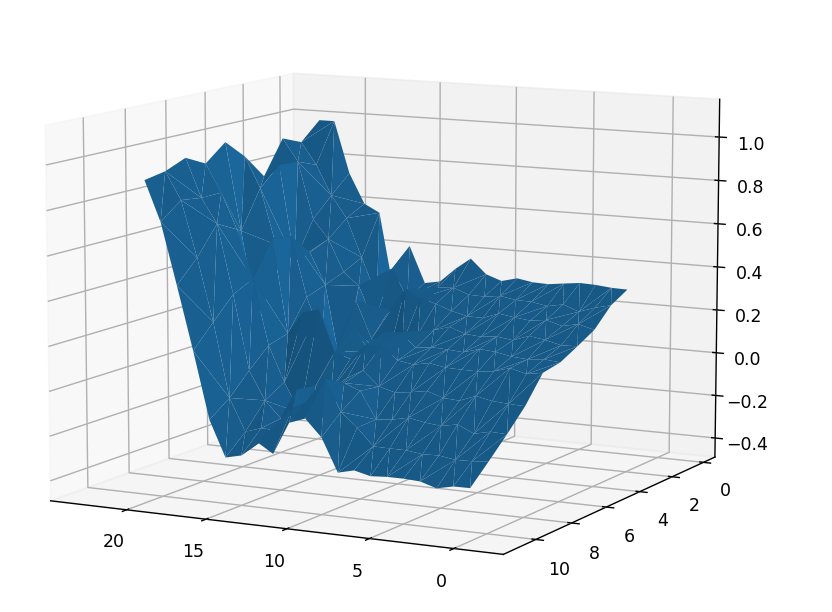
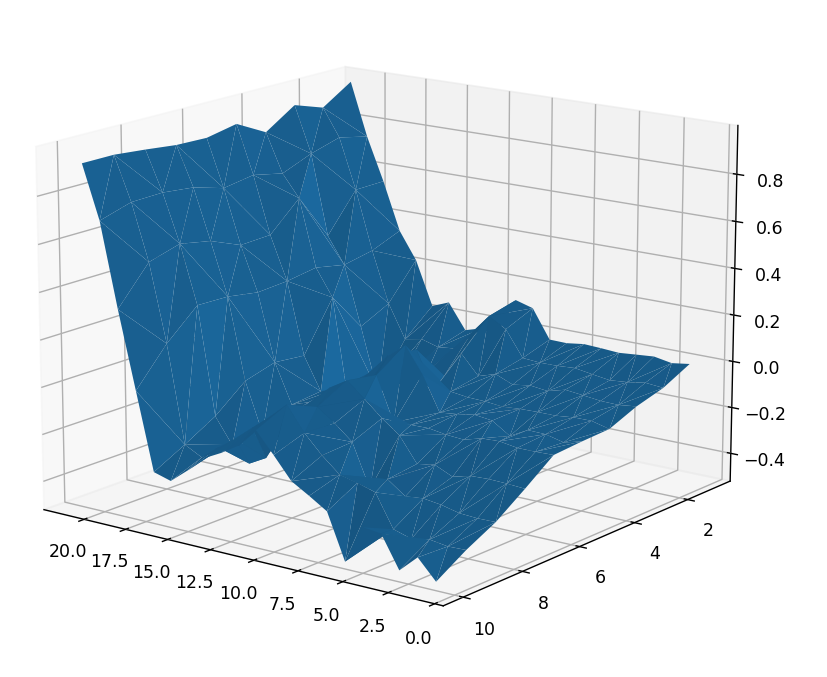
added policy table to readme

diff --git a/agent.py b/agent.py
@@ -1,7 +1,38 @@
 import random 
 from itertools import product
 
-class MCAgent(object):
+class MC_Agent(object):
+    def __init__(self, alpha=1):
+        self.states = list(product(range(1,22), range(1,11)))
+        self.visit_count = {**{(item, 'hit'): 0 for item in self.states}, **{(item, 'stick'): 0 for item in self.states}}
+        self.Q = {**{(item, 'hit'): 0 for item in self.states}, **{(item, 'stick'): 0 for item in self.states}}
+
+        self.state_history = [] # state
+        self.alpha = alpha
+
+    # stochastic episodes are genearted off of an epsilon greedy algorithm. Decision to explore vs exploit is dependent
+    # on the number of times the node itself has been explored
+    def epsilon_greedy_action(self, s):
+        epsilon = 100/(100 + self.visit_count[(s,'hit')] + self.visit_count[(s,'stick')])
+        exploit = random.random() > epsilon
+        if (self.Q[(s, 'hit')] > self.Q[(s, 'stick')] and exploit):
+            return 'hit'
+        elif (self.Q[(s, 'hit')] < self.Q[(s, 'stick')] and exploit):
+            return 'stick'
+        else:
+            return 'hit' if random.random() > 0.5 else 'stick'
+
+    # save the entire trajectory since Monte Carlo learning requires the end result
+    def save_interval(self,s,a):
+        self.state_history.append((s,a))
+        self.visit_count[(s,a)] += 1
+
+    # updated via montecarlo learning with step-value of 1/(# time state is visited)
+    def learn(self, g_t):
+        for (s,a) in self.state_history:
+            self.Q[(s,a)] += (g_t - self.Q[(s,a)])/self.visit_count[(s,a)]
+
+class SARSA_Agent(object):
     def __init__(self, alpha=1):
         self.states = list(product(range(1,22), range(1,11)))
         self.visit_count = {**{(item, 'hit'): 0 for item in self.states}, **{(item, 'stick'): 0 for item in self.states}}

diff --git a/algo.py b/algo.py
@@ -1,5 +1,5 @@
 from environment import Easy21 
-from agent import MCAgent
+from agent import MC_Agent
 from itertools import product
 from mpl_toolkits.mplot3d import Axes3D  
 import matplotlib.pyplot as plt
@@ -7,8 +7,8 @@ from array import array
 import numpy as np
 
 if __name__ == '__main__':
-    player = MCAgent()
-    for k in range(1,1000000):
+    player = MC_Agent()
+    for k in range(1,10000000):
         game = Easy21()
         player.state_history = []
         s, r = game.get_state_and_reward()
@@ -21,6 +21,18 @@ if __name__ == '__main__':
         player.learn(r)
 
     states = list(product(range(1,22), range(1,11)))
+    pi = [[0 for i in range(10)] for j in range(21)]
+    for s in states:
+        if (player.Q[(s, 'hit')] > player.Q[(s, 'stick')]):
+            pi[s[0]-1][s[1]-1] = 1 + player.Q[(s, 'hit')]
+        elif (player.Q[(s, 'hit')] < player.Q[(s, 'stick')]):
+            pi[s[0]-1][s[1]-1] = -1 - player.Q[(s, 'stick')]                                                                                                                                                                                                                                                                                                                                                             
+        else:
+            pi[s[0]-1][s[1]-1] = 0
+    
+    plt.imshow(pi, cmap='RdBu', vmin=-2, vmax=2)
+    plt.colorbar()
+    plt.show()
 
     x = np.array(list(map(lambda s: s[0], states)))
     y = np.array(list(map(lambda s: s[1], states)))

diff --git a/environment.py b/environment.py
@@ -10,11 +10,11 @@ class Easy21(object):
     # update each players sum
     def hit_player(self):
         new_card = random.randint(1, 10)
-        self.player_sum += new_card if random.random() > 1/3 else -1 * new_card
+        self.player_sum += new_card if random.random() > 1/5 else -1 * new_card
     
     def hit_dealer(self):
         new_card = random.randint(1, 10)
-        self.dealer_sum += new_card if random.random() > 1/3 else -1 * new_card
+        self.dealer_sum += new_card if random.random() > 1/5 else -1 * new_card
 
     def give_reward(self, do_compare):
         #first check if either player busts

diff --git a/README.md b/README.md
@@ -1,13 +1,13 @@
 # Easy21
 
-Solution to problem in David Silver's RL course. https://www.davidsilver.uk/wp-content/uploads/2020/03/Easy21-Johannes.pdf
+Game from David Silver's RL course. https://www.davidsilver.uk/wp-content/uploads/2020/03/Easy21-Johannes.pdf
 
 Easy21 is a modifed version of blackjack played with the following rules:
 
 *  The game is played with an infinite deck of cards (i.e. cards are sampled
 with replacement)
 *  Each draw from the deck results in a value between 1 and 10 (uniformly
-distributed) with a colour of red (probability 1/3) or black (probability
+distributed) with a colour of red (probability 1/5) or black (probability
 2/3).
 *  There are no aces or picture (face) cards in this game
 *  At the start of the game both the player and the dealer draw one black
@@ -27,9 +27,13 @@ lose (reward -1), or draw (reward 0) – is the player with the largest sum.
 
 A model-free monte-carlo controlled reinforcement learning algorithm was trained on an environment following the rules of easy21. The model used a look up table to determine the best possible action at each of the 21 x 10 different states.
 
-Tested on a small batch of 10^6 episodes, and plotting the v(s),
+Tested on a small batch of 10^7 episodes, the optimal policy π was determined. The following graphs map each state s to a value between [-2, 2] where blue states (s < 0) favour hits and red states (s > 0) favour sticks. The greater the absolute value means the greater the expected reward yielded by picking that action. States close to zero are likely to be losing states regardless of the action chosen.
 
-![Alt text](image.png)
+![Alt text](image-1.png)
 
-We are able to generate a stragetgy that is favoured to win in all scenarios except for incredibly unfavourable starting states.  Despite acting second, the dealer does not stop immediately after exceeding our player sum, they will try to reach a sum in between (17-21) in which they risk over shooting.
+Plotting the v(s),
+
+![Alt text](image-2.png)
+
+We are able to generate a stragetgy that is favoured to win in all scenarios except for incredibly unfavourable starting states. We see that we are recommended to stick with high numbers as further hits risks busting. We are also recommended to stick with low values as we risk busting in the reverse direction. We are only recommended to hit when we are drastically behind or if the opponennt has a good chance of terminating. Since they do not stop even after surprassing our stuck sum, they risk busting by going over 21, so sticking is generally a better strategy for most states.
 
